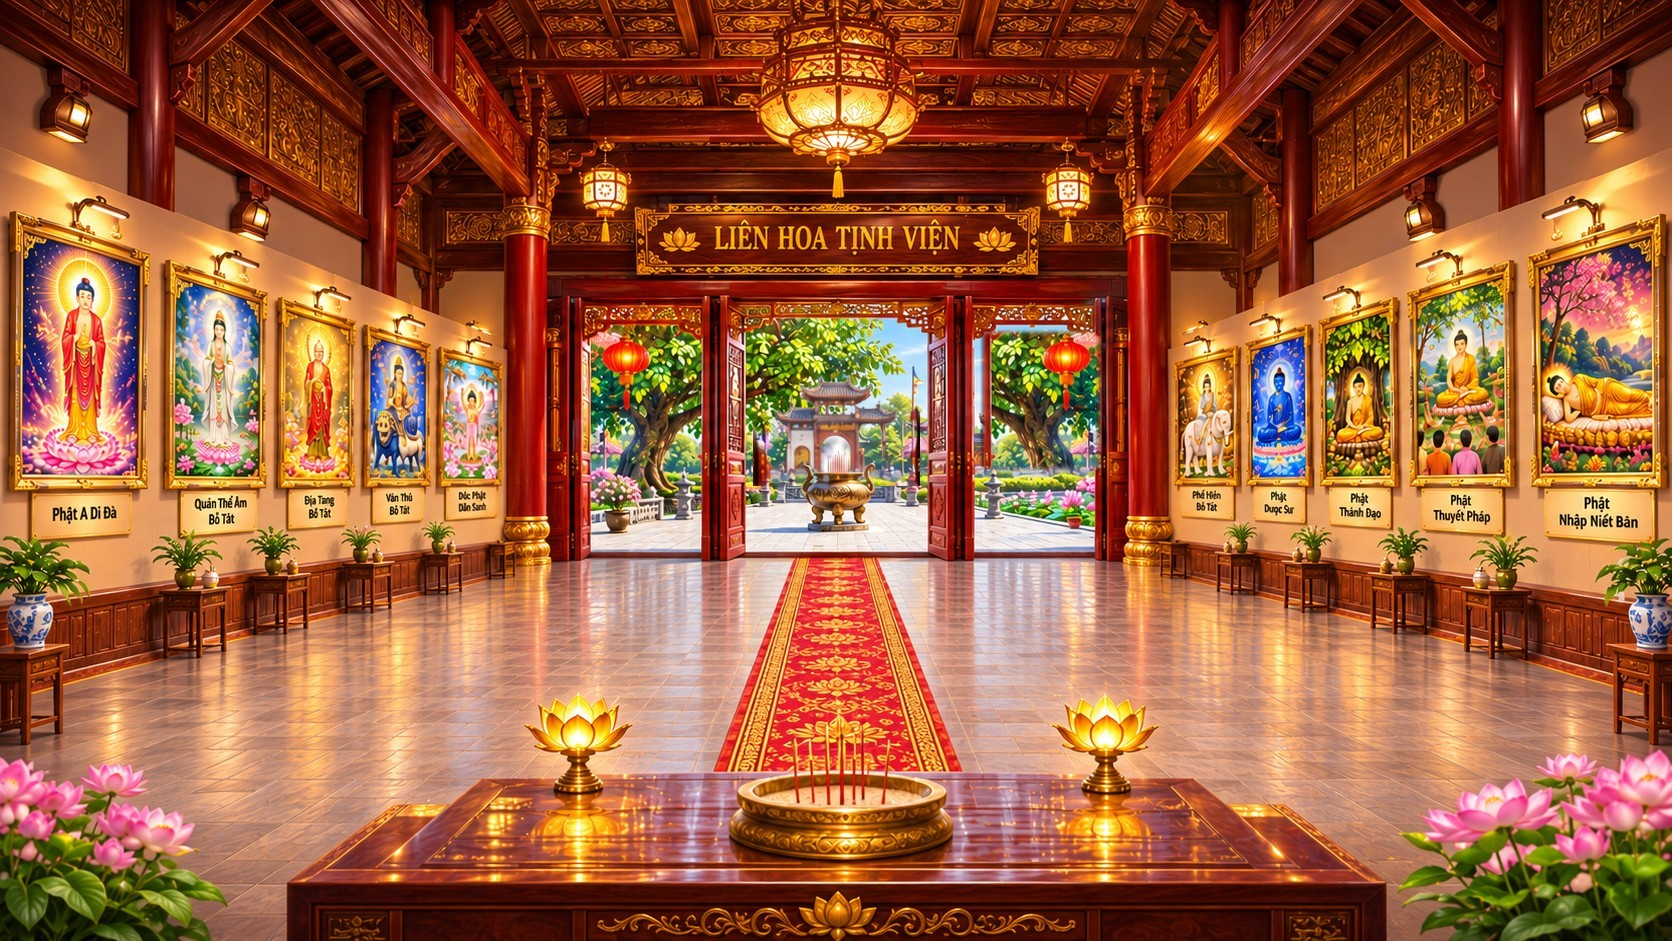
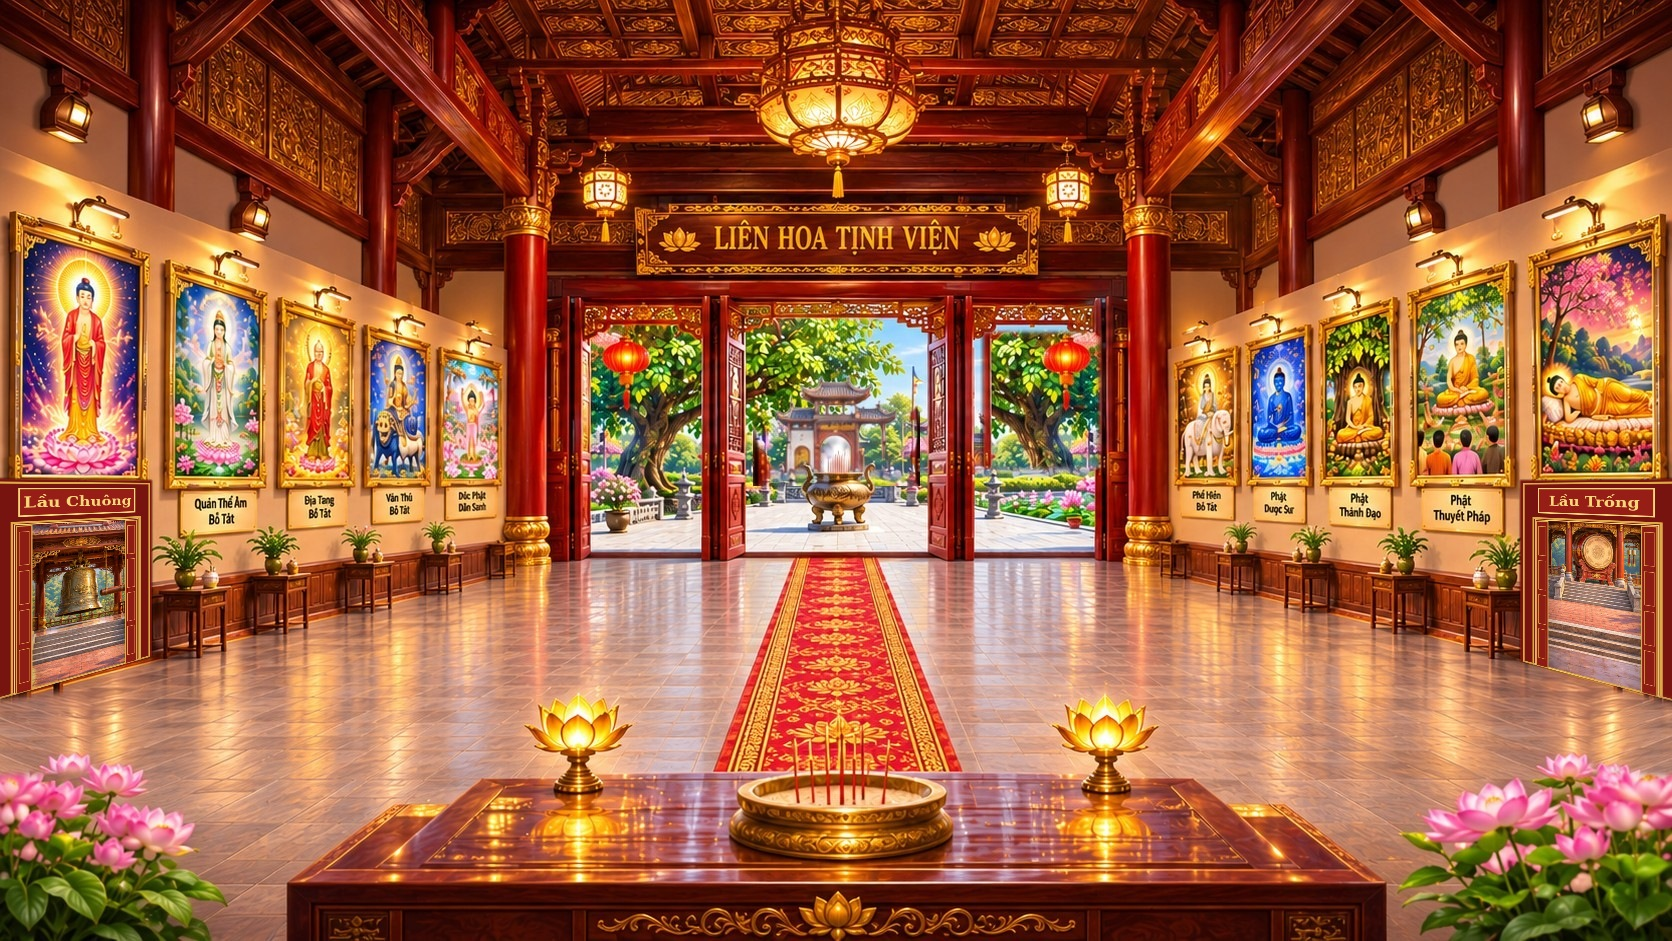
Bàn thờ 2 góc nhìn đồng bộ, xoá khói tĩnh, lạy hướng về Quan Âm, vật cản đèn đá/chậu cây, nhịp trống chuông, cửa trái/phải chánh điện
Claude-Session: https://claude.ai/code/session_0165dYwuGLCeQUJKj4YibH94

Changed region(s): [[0.9019, 0.4931, 1.0, 0.8321], [0.0, 0.4931, 0.0933, 0.8321]]

diff --git a/chua.js b/chua.js
@@ -34,27 +34,28 @@
     hall: { name: 'Chánh điện', img: 'assets/song/nen.jpg', fg: 'assets/song/truoc.png', fgY: 660, hz: 472.4, k: .525,
       floor: [[798, 556], [892, 556], [1430, 648], [1672, 712], [1672, 900], [1388, 900], [1388, 818], [292, 818], [292, 900], [0, 900], [0, 712], [250, 648]],
       block: [[180, 730, 290, 812]],                                         // chỗ thầy ngồi
-      exits: [[[790, 540, 900, 563], 'cua', [836, 900], 'up'], [[0, 690, 14, 900], 'cua-hong', [836, 900], 'up'], [[1658, 690, 1672, 900], 'lau-trong', [836, 900], 'up']],
+      exits: [[[790, 540, 900, 563], 'cua', [836, 900], 'up'],                              // cửa chính
+              [[0, 640, 150, 735], 'lau-chuong', [836, 905], 'up'], [[1522, 640, 1672, 735], 'lau-trong', [836, 905], 'up']],   // cửa trái ra Lầu Chuông, cửa phải ra Lầu Trống
       urn: { stand: [845, 806], face: 'down', plant: [843, 800], len: 58 } },
     'cua': { lu: { src: 'assets/ngoai/lu-cua.png', at: [755, 423, 164, 184] }, name: 'Cửa Chánh điện', img: 'assets/ngoai/cua.jpg', hz: 470, k: .6,
       floor: [[222, 941], [1450, 941], [1450, 742], [1085, 522], [600, 522], [222, 742]],
-      block: [[238, 560, 425, 835], [1245, 560, 1440, 835], [762, 566, 910, 616]],
+      block: [[425, 560, 515, 640], [1157, 560, 1250, 640], [600, 505, 645, 552], [1030, 505, 1070, 552], [675, 490, 700, 515], [975, 490, 1000, 515], [238, 560, 425, 835], [1245, 560, 1440, 835], [762, 566, 910, 616]],
       exits: [[[560, 500, 1110, 532], 'san', [836, 905], 'up'], [[222, 932, 1450, 941], 'hall', [845, 575], 'down']],
       urn: { stand: [836, 640], face: 'up', plant: [836, 462], len: 26 } },
     'cua-hong': { lu: { src: 'assets/ngoai/lu-cua.png', at: [755, 423, 164, 184] }, name: 'Thềm Chánh điện', img: 'assets/ngoai/cua-hong.jpg', hz: 470, k: .6,
       floor: [[222, 941], [1450, 941], [1450, 742], [1085, 522], [600, 522], [222, 742]],
-      block: [[238, 560, 425, 835], [1245, 560, 1440, 835], [762, 566, 910, 616]],
+      block: [[425, 560, 515, 640], [1157, 560, 1250, 640], [600, 505, 645, 552], [1030, 505, 1070, 552], [675, 490, 700, 515], [975, 490, 1000, 515], [238, 560, 425, 835], [1245, 560, 1440, 835], [762, 566, 910, 616]],
       exits: [[[560, 500, 1110, 532], 'san', [836, 905], 'up'], [[222, 932, 1450, 941], 'hall', [60, 790], 'right']],
       urn: { stand: [836, 640], face: 'up', plant: [836, 462], len: 26 } },
     'san': { lu: { src: 'assets/ngoai/lu-san.png', at: [682, 512, 307, 337] }, name: 'Sân chùa', img: 'assets/ngoai/san.jpg', hz: 470, k: .6,
       floor: [[0, 941], [1672, 941], [1672, 822], [1112, 560], [1042, 500], [628, 500], [558, 560], [0, 822]],
-      block: [[702, 782, 968, 852]],
+      block: [[185, 620, 330, 765], [1365, 620, 1510, 765], [350, 600, 462, 670], [1210, 600, 1330, 670], [490, 540, 550, 605], [1125, 540, 1190, 605], [702, 782, 968, 852]],
       exits: [[[600, 490, 1070, 510], 'san-gan', [560, 905], 'up'], [[0, 924, 1672, 941], 'mat-tien', [836, 905], 'up'],
               [[0, 800, 12, 941], 'bo-de', [1590, 880], 'left'], [[1660, 800, 1672, 941], 'quan-am', [90, 880], 'right']],
       urn: { stand: [836, 905], face: 'up', plant: [836, 588], len: 50 } },
     'san-gan': { lu: { src: 'assets/ngoai/lu-san-gan.png', at: [677, 584, 395, 357] }, name: 'Sân trước Tam Quan', img: 'assets/ngoai/san-gan.jpg', hz: 470, k: .6,
       floor: [[0, 941], [1672, 941], [1672, 782], [1122, 560], [1000, 528], [700, 528], [560, 560], [0, 782]],
-      block: [[692, 862, 1058, 941]],
+      block: [[205, 600, 335, 785], [1410, 600, 1555, 790], [345, 600, 470, 690], [1295, 600, 1395, 690], [495, 560, 565, 645], [1215, 560, 1290, 650], [1128, 540, 1178, 600], [692, 862, 1058, 941]],
       exits: [[[680, 515, 1020, 538], 'tam-quan', [836, 905], 'up'], [[0, 930, 650, 941], 'mat-tien', [836, 905], 'up'], [[1090, 930, 1672, 941], 'mat-tien', [836, 905], 'up'],
               [[0, 760, 12, 941], 'bo-de', [1590, 880], 'left'], [[1660, 760, 1672, 941], 'quan-am', [90, 880], 'right']],
       urn: { stand: [874, 905], face: 'up', plant: [874, 676], len: 62 } },
@@ -69,18 +70,20 @@
       urn: { stand: [836, 905], face: 'up', plant: [836, 600], len: 46 } },
     'bo-de': { name: 'Gốc Bồ Đề', img: 'assets/ngoai/bo-de.jpg', hz: 520, k: .62,
       floor: [[0, 941], [1672, 941], [1672, 780], [1562, 742], [1452, 562], [1382, 540], [1332, 562], [1332, 742], [0, 742]],
+      block: [[60, 700, 185, 780], [1530, 700, 1660, 785]],
       exits: [[[1330, 530, 1460, 552], 'lau-chuong', [836, 905], 'up'], [[0, 930, 1672, 941], 'san', [836, 905], 'up'], [[1660, 760, 1672, 941], 'san', [90, 880], 'right']] },
     'quan-am': { name: 'Hồ sen · Tượng Quan Âm', img: 'assets/ngoai/quan-am.jpg', hz: 500, k: .62,
       floor: [[0, 941], [1672, 941], [1672, 746], [1012, 746], [982, 602], [748, 602], [720, 746], [0, 746]],
       exits: [[[748, 596, 982, 612], 'lau-trong', [836, 905], 'up'], [[0, 930, 1672, 941], 'san', [836, 905], 'up'], [[0, 746, 12, 941], 'san', [1590, 880], 'left']],
-      act: [[750, 600, 990, 640], 'quanam'] },
+      act: [[1050, 746, 1250, 800], 'quanam'], shrine: { stand: [1110, 772] } },
     'lau-chuong': { tap: [[737, 415, 927, 679], 'chuong'], name: 'Lầu Chuông', img: 'assets/ngoai/lau-chuong.jpg', hz: 560, k: .66,
       floor: [[0, 941], [1672, 941], [1672, 802], [1052, 802], [1042, 722], [648, 722], [640, 802], [0, 802]],
-      exits: [[[0, 802, 12, 941], 'bo-de', [1590, 880], 'left'], [[1660, 802, 1672, 941], 'hanh-lang', [500, 905], 'up'], [[0, 930, 1672, 941], 'mat-tien', [836, 905], 'up']],
+      block: [[115, 780, 280, 845], [1415, 780, 1585, 845], [420, 795, 640, 840], [1045, 795, 1265, 830]],
+      exits: [[[0, 802, 12, 941], 'bo-de', [1590, 880], 'left'], [[1660, 802, 1672, 941], 'hanh-lang', [500, 905], 'up'], [[0, 930, 1672, 941], 'hall', [200, 745], 'right']],
       act: [[648, 718, 1042, 740], 'chuong'] },
     'lau-trong': { tap: [[760, 361, 935, 519], 'trong'], name: 'Lầu Trống', img: 'assets/ngoai/lau-trong.jpg', hz: 480, k: .6,
       floor: [[222, 941], [1450, 941], [1450, 846], [1322, 752], [1322, 652], [362, 652], [362, 752], [222, 846]],
-      exits: [[[222, 930, 1450, 941], 'hall', [1610, 790], 'left']],
+      exits: [[[222, 930, 1450, 941], 'hall', [1470, 745], 'left']],
       act: [[700, 648, 990, 670], 'trong'] },
     'hanh-lang': { name: 'Hành lang', img: 'assets/ngoai/hanh-lang.jpg', hz: 470, k: .6,
       floor: [[150, 941], [1262, 941], [1202, 802], [962, 602], [890, 572], [730, 572], [600, 642], [150, 832]],
@@ -233,6 +236,7 @@
     const flip = p.flip && p.mode !== 'walk' && f >= 16;
     ctx.save(); ctx.translate(p.fx, p.fy + 1);
     if (flip) ctx.scale(-1, 1);
+    if (p.squash) ctx.scale(1, p.squash);
     ctx.drawImage(S.img, col * S.cw, row * S.ch, S.cw, S.ch, -dw / 2, -dh, dw, dh);
     ctx.restore();
     if (p.holding) drawHeldSticks(p, h);
@@ -294,7 +298,8 @@
   function walkable(x, y, rm = R()) {
     if (!inPoly(x, y, rm.floor)) return false;
     if (rm.key && rm.key !== 'hall' && chanAt(rm.key, x, y) > 128) return false;   // chân lư, đèn đá, chậu cây… (vật cố định)
-    for (const b of rm.block || []) if (inRect(x, y, b)) return false;
+    const m = rm.key === 'hall' ? 0 : .1 * hAt(y, rm);                     // bề ngang thân người: không lấn vào vật cản
+    for (const b of rm.block || []) if (x >= b[0] - m && x <= b[2] + m && y >= b[1] && y <= b[3]) return false;
     return true;
   }
   const dirOf = (dx, dy) => Math.abs(dx) > Math.abs(dy) * .8 ? (dx < 0 ? 'left' : 'right') : (dy < 0 ? 'up' : 'down');
@@ -326,6 +331,17 @@
       if (seated) { p.frame = F.sit; await sleep(450); p.frame = F.sitBow; await sleep(450); p.frame = F.prostrate; await sleep(1100); p.frame = F.sit; await sleep(400); }
       else { p.mode = 'pose'; p.frame = F.stand; await sleep(400); p.frame = F.standBow; await sleep(450); p.frame = F.sit; await sleep(350); p.frame = F.prostrate; await sleep(1100); p.frame = F.sit; await sleep(350); p.frame = F.stand; await sleep(300); }
     }
+  }
+  // Lạy hướng vào tượng (quay lưng về phía người xem): đứng → quỳ → cúi rạp → quỳ → đứng
+  const BACK_SIT = 21;
+  async function prostrateUp(p, n = 3) {
+    const sh = ROOMS[p.room].shrine;
+    if (sh) { if (p.mode === 'seat') await standUp(p); await walkTo(p, sh.stand[0], sh.stand[1]); }
+    p.mode = 'pose'; p.dir = 'up'; p.frame = BACK_SIT; await sleep(500);              // quỳ xuống trước tượng
+    for (let i = 0; i < n; i++) {
+      p.squash = .84; await sleep(160); p.squash = .66; await sleep(1000); p.squash = .84; await sleep(160); p.squash = 0; await sleep(550);
+    }
+    p.squash = 0;
   }
   function bowOnce(p, ms = 900) {
     if (p.busy) return;
@@ -548,7 +564,7 @@
     me: () => ({ x: me.fx, y: me.fy, standing: me.mode !== 'seat', room }),
     room: () => room, roomName: () => R().name,
     exits: () => { const seen = new Set(); return (R().exits || []).filter(e => !e[1].startsWith('soon:') && !seen.has(e[1]) && seen.add(e[1]))
-      .map(([r, to, at, face]) => ({ to, at, face, name: ROOMS[to].name, side: r[2] < 60 ? 'left' : r[0] > W - 60 ? 'right' : r[1] > H - 40 ? 'down' : 'up' })); },
+      .map(([r, to, at, face]) => ({ to, at, face, name: ROOMS[to].name, side: r[2] <= 160 ? 'left' : r[0] >= W - 160 ? 'right' : r[1] > H - 40 ? 'down' : 'up' })); },
     abbotEnter, abbotLeave,
     go: (to, at, face) => go(to, at || (to === 'hall' ? [845, 600] : [836, 900]), face || (to === 'hall' ? 'down' : 'up')),
     bow(key, depth, ms) { if (key === 'ban') { if (!meBusy) bowOnce(me, ms || 900); } },
@@ -557,7 +573,8 @@
     async layPhat(times = 3) {
       if (room === 'hall') hallNpcs().filter(p => !p.busy && p.mode === 'seat').forEach(p => { p.busy = true; setTimeout(() => prostrate(p, times).then(() => p.busy = false), rnd(100, 700)); });
       strollers.forEach(p => p.mode !== 'walk' && prostrate(p, 1));
-      if (meBusy) return; meBusy = true; me.busy = true; await prostrate(me, times); me.busy = false; meBusy = false;
+      if (meBusy) return; meBusy = true; me.busy = true;
+      try { if (R().shrine) await prostrateUp(me, times); else await prostrate(me, times); } finally { me.busy = false; meBusy = false; }
     },
     async incense() {
       if (meBusy) return false;

diff --git a/app.js b/app.js
@@ -169,6 +169,41 @@
     });
   }
   const bell = () => chime(196, 7, .7);        // chuông lớn
+  // Trống lớn: tiếng "tùng" trầm, dội (sóng sin tụt cao độ + tiếng da trống)
+  function drum(vol = 1) {
+    const a = audio(), t = a.currentTime;
+    const o = a.createOscillator(), g = a.createGain();
+    o.type = 'sine'; o.frequency.setValueAtTime(110, t); o.frequency.exponentialRampToValueAtTime(48, t + .45);
+    g.gain.setValueAtTime(0, t); g.gain.linearRampToValueAtTime(vol, t + .006); g.gain.exponentialRampToValueAtTime(.001, t + 1.6);
+    o.connect(g).connect(master); o.start(t); o.stop(t + 1.7);
+    const o2 = a.createOscillator(), g2 = a.createGain();
+    o2.type = 'triangle'; o2.frequency.setValueAtTime(190, t); o2.frequency.exponentialRampToValueAtTime(90, t + .2);
+    g2.gain.setValueAtTime(vol * .35, t); g2.gain.exponentialRampToValueAtTime(.001, t + .35);
+    o2.connect(g2).connect(master); o2.start(t); o2.stop(t + .4);
+    const n = a.createBufferSource(), b = a.createBuffer(1, a.sampleRate * .12, a.sampleRate), d = b.getChannelData(0);
+    for (let i = 0; i < d.length; i++) d[i] = (Math.random() * 2 - 1) * (1 - i / d.length) ** 3;
+    const lp = a.createBiquadFilter(); lp.type = 'lowpass'; lp.frequency.value = 900;
+    const gn = a.createGain(); gn.gain.value = vol * .5; n.buffer = b; n.connect(lp).connect(gn).connect(master); n.start(t);
+  }
+  // Chuông đồng lớn: tiếng "boong" ngân dài, có độ rung
+  function bigBell(vol = .75) {
+    const a = audio(), t = a.currentTime;
+    [[1, 1], [2.0, .5], [2.4, .35], [3.0, .25], [4.2, .15], [.5, .4]].forEach(([m, k], i) => {
+      const o = a.createOscillator(), g = a.createGain(); o.type = 'sine'; o.frequency.value = 130 * m * (1 + (i % 2 ? .003 : -.002));
+      g.gain.setValueAtTime(0, t); g.gain.linearRampToValueAtTime(vol * k, t + .008);
+      g.gain.exponentialRampToValueAtTime(.0001, t + 9 / (1 + i * .5));
+      o.connect(g).connect(master); o.start(t); o.stop(t + 9.5);
+    });
+  }
+  // Đánh theo nhịp: âm thanh và chữ cùng một nhịp
+  const striking = {};
+  function strike(kind) {
+    if (striking[kind]) return false; striking[kind] = true;
+    const T = kind === 'trong' ? { gap: 850, n: 3, word: 'Tùng!', snd: drum, x: 848, y: 430 } : { gap: 2400, n: 3, word: 'Boong…', snd: bigBell, x: 832, y: 520 };
+    for (let i = 0; i < T.n; i++) setTimeout(() => { T.snd(); floatText(T.word, T.x + (i - 1) * 70, T.y, true); Nguoi.bow('ban', 0, Math.min(700, T.gap - 150)); }, i * T.gap);
+    setTimeout(() => striking[kind] = false, T.n * T.gap);
+    return true;
+  }
   const mo = () => {                            // tiếng mõ
     const a = audio(), t = a.currentTime, o = a.createOscillator(), g = a.createGain();
     o.type = 'triangle'; o.frequency.setValueAtTime(820, t); o.frequency.exponentialRampToValueAtTime(380, t + .08);
@@ -319,13 +354,14 @@
     else setView('all');
     toast(name); logIt('Đến ' + name); chime(660, .3, .15);
     chatRoom(room, room === 'hall' ? 'Chánh điện ' + state.hall : name);
+    if (room === 'lau-trong' || room === 'lau-chuong') setTimeout(() => strike(room === 'lau-trong' ? 'trong' : 'chuong'), 700);   // đến nơi thì nghe trống/chuông
   });
   addEventListener('chua-soon', e => toast(`${e.detail} đang được xây, sắp mở 🙏`));
   addEventListener('chua-huong', e => { if (e.detail.me) { addMerit(2, 'Thắp hương'); floatText('Nguyện hương thơm lan khắp mười phương', 843, 560, true); chime(1040, 2.5, .2); } else incenseBoost = 6; });
   addEventListener('chua-act', e => {
     const kind = e.detail;
-    if (kind === 'chuong') { bell(); Nguoi.bow('ban'); floatText('Nguyện tiếng chuông này vang khắp pháp giới'); addMerit(2, 'Thỉnh chuông'); }
-    if (kind === 'trong') { [0, 450, 900].forEach(d => setTimeout(() => chime(82, 1.4, .9), d)); Nguoi.bow('ban'); floatText('Tùng… tùng… tùng…'); addMerit(1, 'Đánh trống'); }
+    if (kind === 'chuong' && strike('chuong')) { setTimeout(() => floatText('Nguyện tiếng chuông này vang khắp pháp giới'), 600); addMerit(2, 'Thỉnh chuông'); }
+    if (kind === 'trong' && strike('trong')) addMerit(1, 'Đánh trống');
     if (kind === 'quanam') { chime(880, 3, .3); Nguoi.layPhat(1); floatText('Nam Mô Đại Từ Đại Bi Quán Thế Âm Bồ Tát'); addMerit(3, 'Chiêm bái Quan Âm'); petals(12); }
   });
   addEventListener('chua-count', () => paintHall());

diff --git a/dien3d.js b/dien3d.js
@@ -127,7 +127,7 @@ const tex = {
   }),
 
   tableFront: () => ctex(1024, 256, (g, w, h) => {
-    g.fillStyle = '#8f1418'; g.fillRect(0, 0, w, h);
+    const gr = g.createLinearGradient(0, 0, 0, h); gr.addColorStop(0, '#7a2516'); gr.addColorStop(1, '#4e140c'); g.fillStyle = gr; g.fillRect(0, 0, w, h);
     g.strokeStyle = GOLD; g.lineWidth = 6; g.strokeRect(14, 14, w - 28, h - 28);
     g.lineWidth = 3; g.strokeRect(30, 30, w - 60, h - 60);
     for (let x = 0; x < 4; x++) { const cx = 128 + x * 256; g.strokeRect(cx - 100, 50, 200, h - 100); lotusMotif(g, cx, h / 2 + 26, 54); for (const d of [-1, 1]) cloud(g, cx + d * 66, h / 2 - 10, 18); }
@@ -339,21 +339,22 @@ function buildHall(renderer) {
 
   // bàn thờ phía trước
   const table = new THREE.Group(); table.position.set(0, .66, -6.25); scene.add(table);
+  const tableLamps = [];
   const tf = tex.tableFront();
-  const tm = [M.lacquer, M.lacquer, M.lacquer, M.lacquer, new THREE.MeshStandardMaterial({ map: tf, roughness: .4, metalness: .2 }), M.lacquer];
+  const woodL = new THREE.MeshPhysicalMaterial({ color: 0x6e2214, roughness: .3, metalness: .05, clearcoat: .9, clearcoatRoughness: .15 });
+  const tm = [woodL, woodL, woodL, woodL, new THREE.MeshStandardMaterial({ map: tf, roughness: .4, metalness: .2 }), woodL];
   add(new THREE.BoxGeometry(4.4, .92, 1.0), tm, 0, .46, 0, table);
-  add(new THREE.BoxGeometry(4.6, .07, 1.12), M.gold, 0, .95, 0, table);
-  const UM = makeMaterials(), urn = buildUrn(UM); urn.scale.setScalar(.27); urn.position.set(0, .985, 0); table.add(urn);
-  const incense = new Incense(urn, UM); incense.add(9, .34);
+  add(new THREE.BoxGeometry(4.6, .07, 1.12), M.gold, 0, .93, 0, table);
+  add(new THREE.BoxGeometry(4.5, .03, 1.06), woodL, 0, .97, 0, table);
+  // đồng bộ với bàn thờ ở góc nhìn trước (ảnh vẽ): 2 đèn sen trên bàn, bát hương tròn bằng đồng ở giữa
+  const UM = makeMaterials(), urn = new THREE.Group(); urn.scale.setScalar(.27); urn.position.set(0, .985 - .83 * .27, .05); table.add(urn);
+  const bowl = new THREE.Mesh(new THREE.LatheGeometry([V(0, 0), V(1.25, 0), V(1.3, .1), V(1.45, .18), V(1.5, .45), V(1.58, .62), V(1.62, .9), V(1.52, 1.02), V(1.4, 1.0), V(0, .98)], 48), M.goldHi);
+  bowl.position.y = .83; urn.add(bowl);
+  const ash = new THREE.Mesh(new THREE.CircleGeometry(1.42, 40), new THREE.MeshStandardMaterial({ color: 0xd8cbb0, roughness: .95 }));
+  ash.rotation.x = -PI / 2; ash.position.y = .83 + .97; urn.add(ash);
+  const incense = new Incense(urn, UM); incense.add(9, 1.0);
   for (const s of [-1, 1]) {
-    const cs = new THREE.Group(); cs.position.set(s * 1.6, .985, 0); table.add(cs);
-    cs.add(new THREE.Mesh(new THREE.LatheGeometry([V(0, 0), V(.12, 0), V(.06, .05), V(.035, .4), V(.09, .44), V(0, .45)], 20), M.gold));
-    const c = add(new THREE.CylinderGeometry(.04, .04, .22, 12), M.candle, 0, .56, 0, cs);
-    const f = new THREE.Sprite(flameMat); f.scale.set(.08, .16, 1); f.position.y = .74; cs.add(f);
-    const v = vase(M); v.position.set(s * .9, .985, .05); v.scale.setScalar(1.3); table.add(v);
-    const fr = new THREE.Group(); fr.position.set(s * .5, .985, .25); table.add(fr);
-    fr.add(new THREE.Mesh(new THREE.CylinderGeometry(.16, .1, .06, 20), M.gold));
-    for (let i = 0; i < 5; i++) { const o = add(new THREE.SphereGeometry(.06, 12, 10), new THREE.MeshStandardMaterial({ color: [0xf2a23a, 0xe0c040, 0xd9652a][i % 3], roughness: .5 }), Math.cos(i * 1.3) * .07, .08 + (i > 3 ? .08 : 0), Math.sin(i * 1.3) * .07, fr); }
+    const L = lotusLamp(M, flameMat, glowMat, .9); L.scale.setScalar(.8); L.position.set(s * 1.07, .985, -.05); table.add(L); tableLamps.push(L);
   }
 
   // cột sơn son
@@ -383,8 +384,8 @@ function buildHall(renderer) {
   }
 
   // đèn sen đứng hai bên
-  const lamps = [];
-  for (const [x, z, h] of [[-4.6, -4.9, 2.3], [4.6, -4.9, 2.3], [-6.6, -2.4, 1.8], [6.6, -2.4, 1.8], [-2.2, -6.7, 1.3], [2.2, -6.7, 1.3]]) {
+  const lamps = [...tableLamps];
+  for (const [x, z, h] of [[-4.6, -4.9, 2.3], [4.6, -4.9, 2.3], [-6.6, -2.4, 1.8], [6.6, -2.4, 1.8]]) {
     const L = lotusLamp(M, flameMat, glowMat, h); L.position.set(x, z < -6 ? .66 : 0, z); scene.add(L); lamps.push(L);
   }
 
